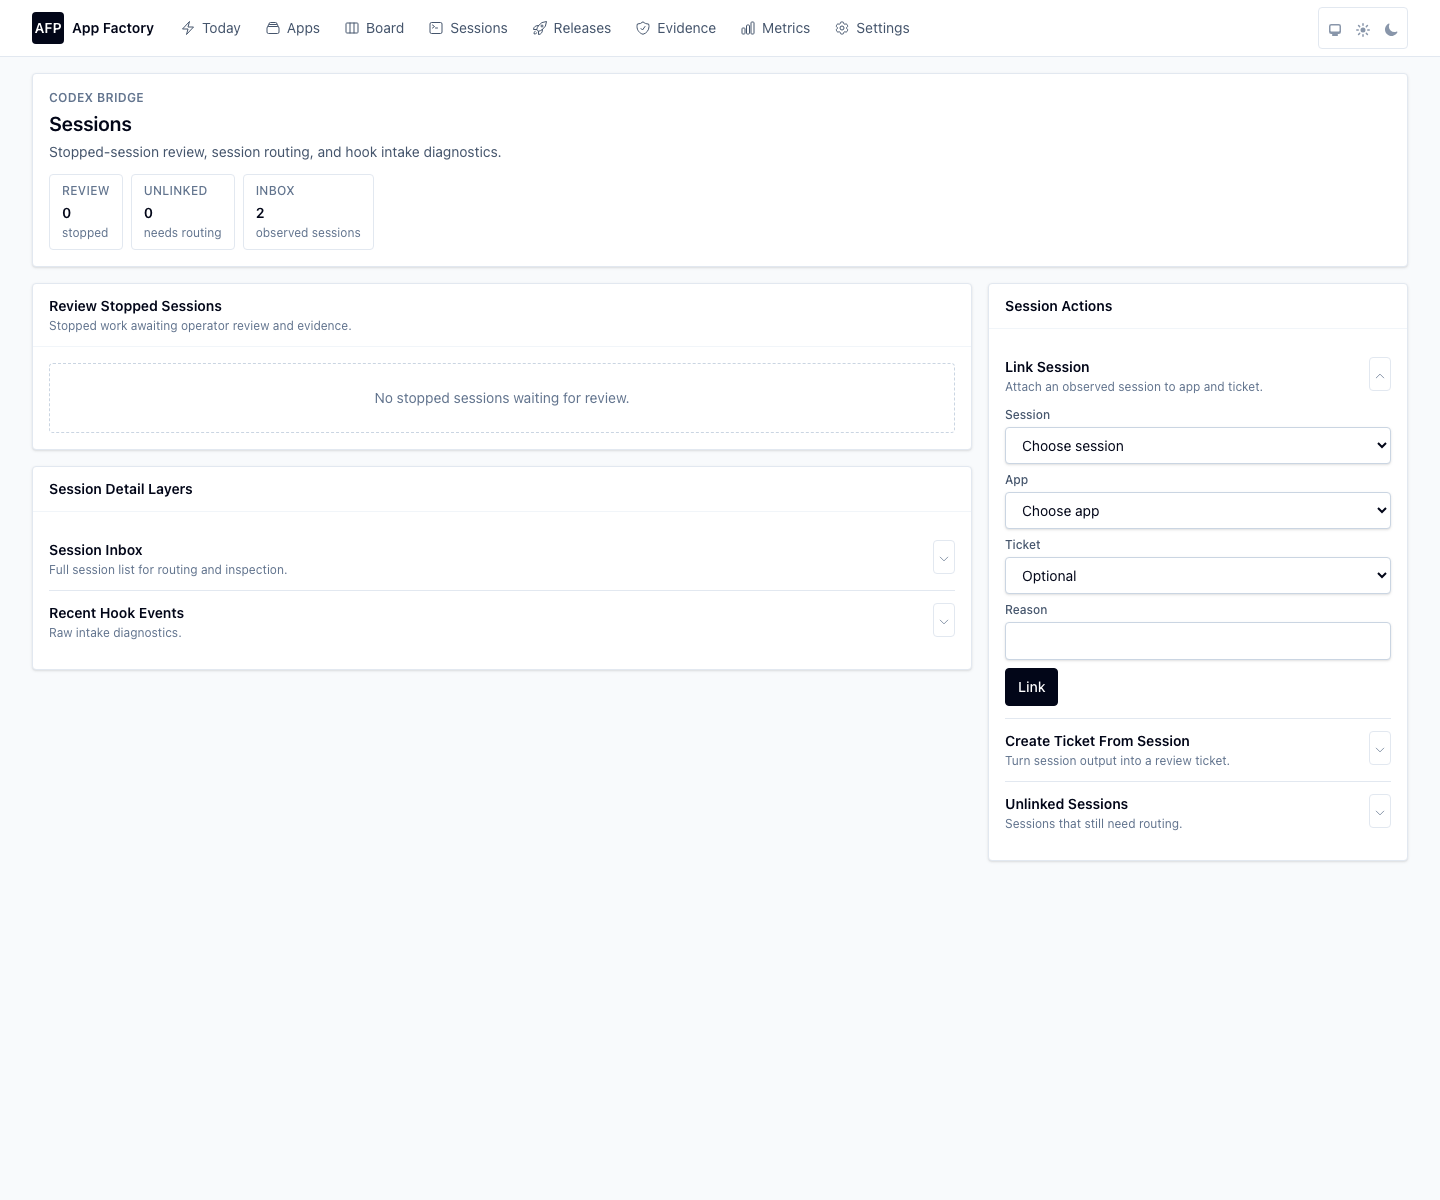
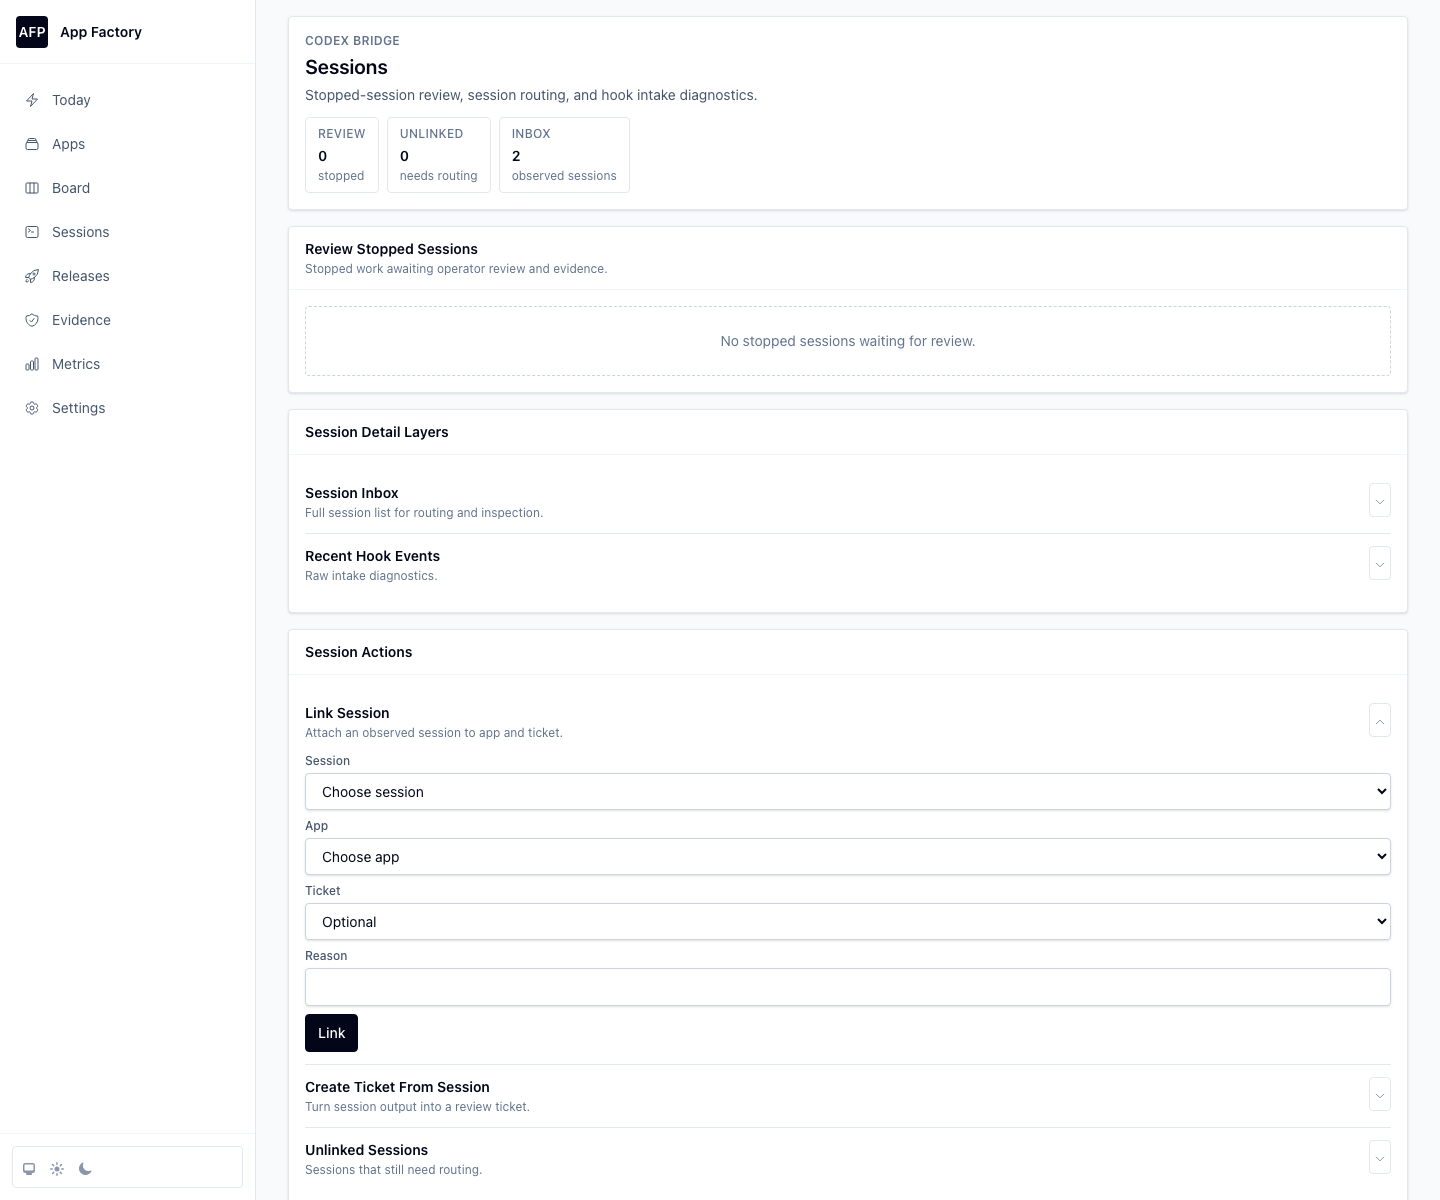
Move app navigation into sidebar

diff --git a/README.md b/README.md
@@ -216,6 +216,8 @@ for the Phase 2 scope and verification contract.
 
 The UI is organized around a consistent reading order:
 
+- Global sidebar: persistent navigation and theme controls stay beside the
+  working surface instead of competing with page content above it.
 - Page header: what this screen is for and the few counters that orient the user.
 - Primary area: the one thing the user is most likely to read or decide from.
 - Secondary layers: related queues, history, diagnostics, and advanced fields in
